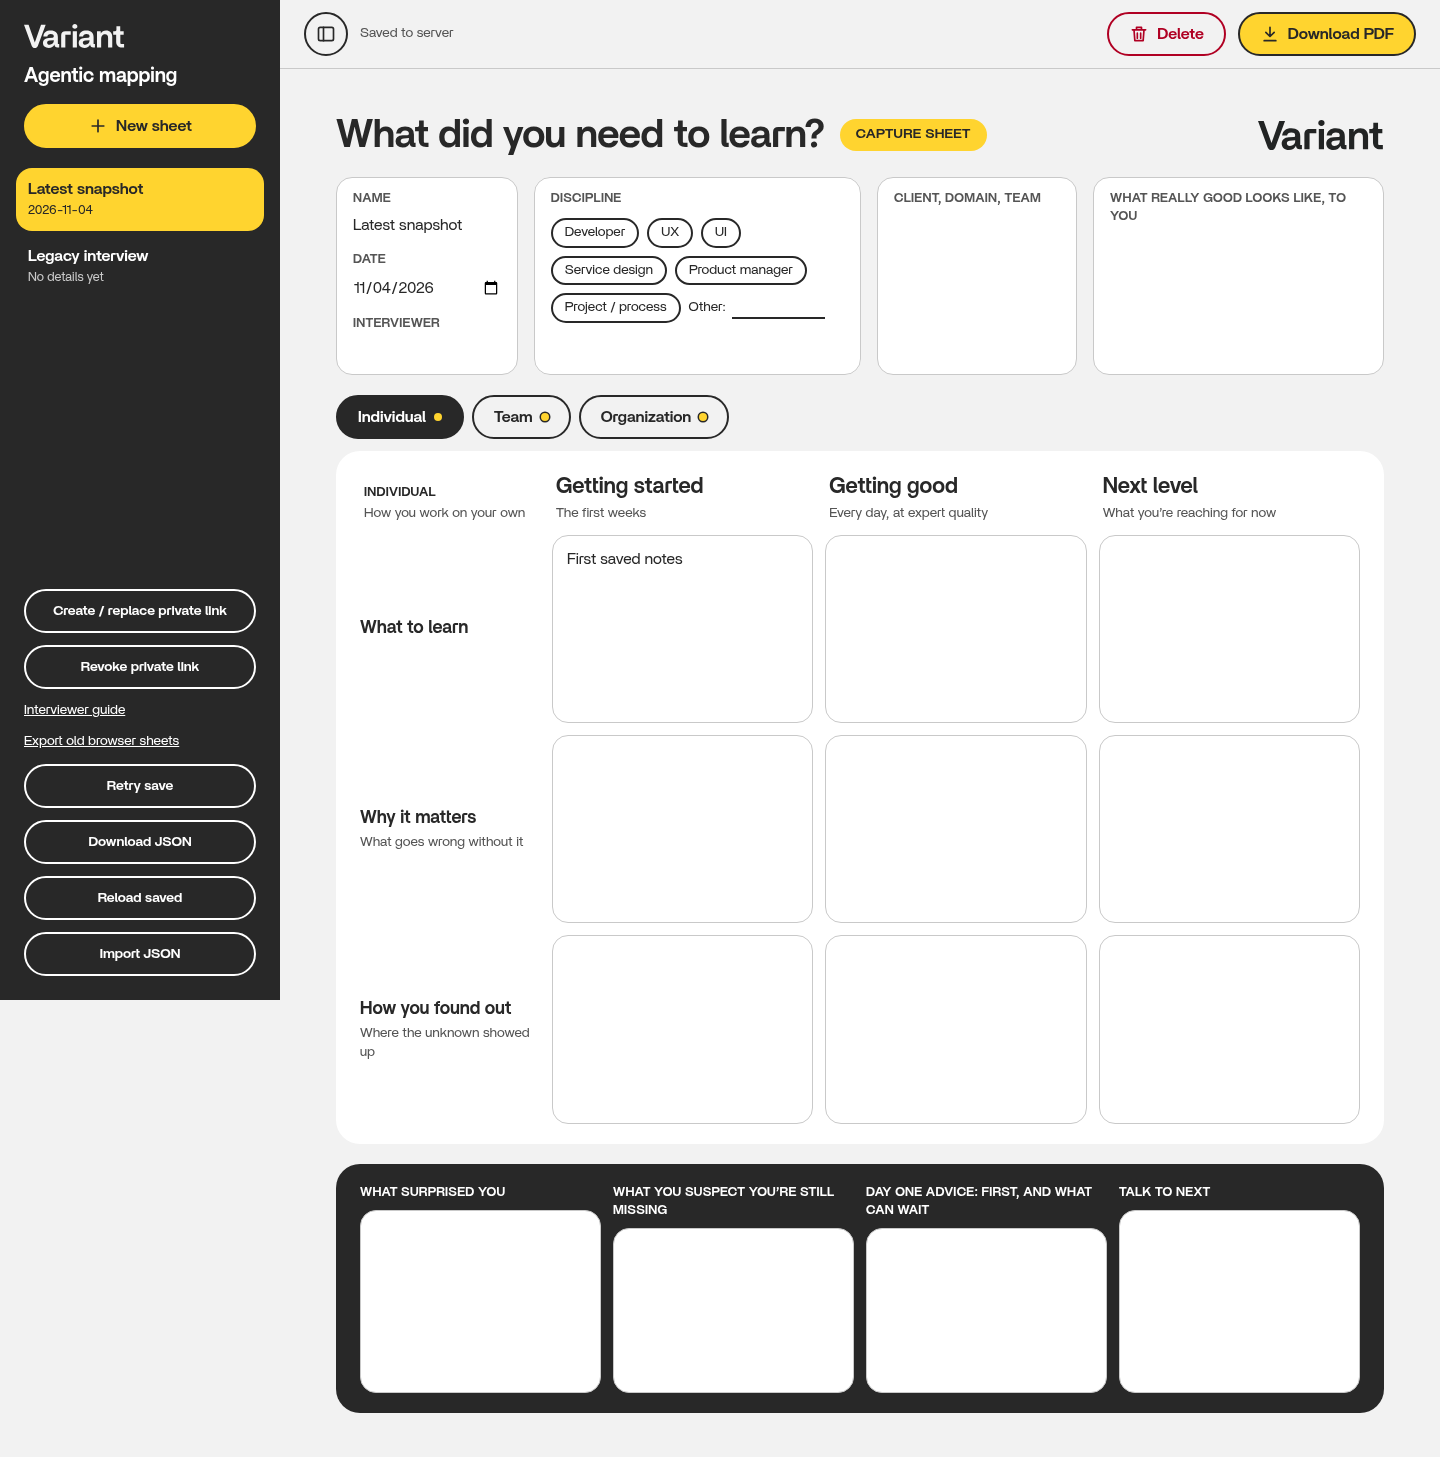
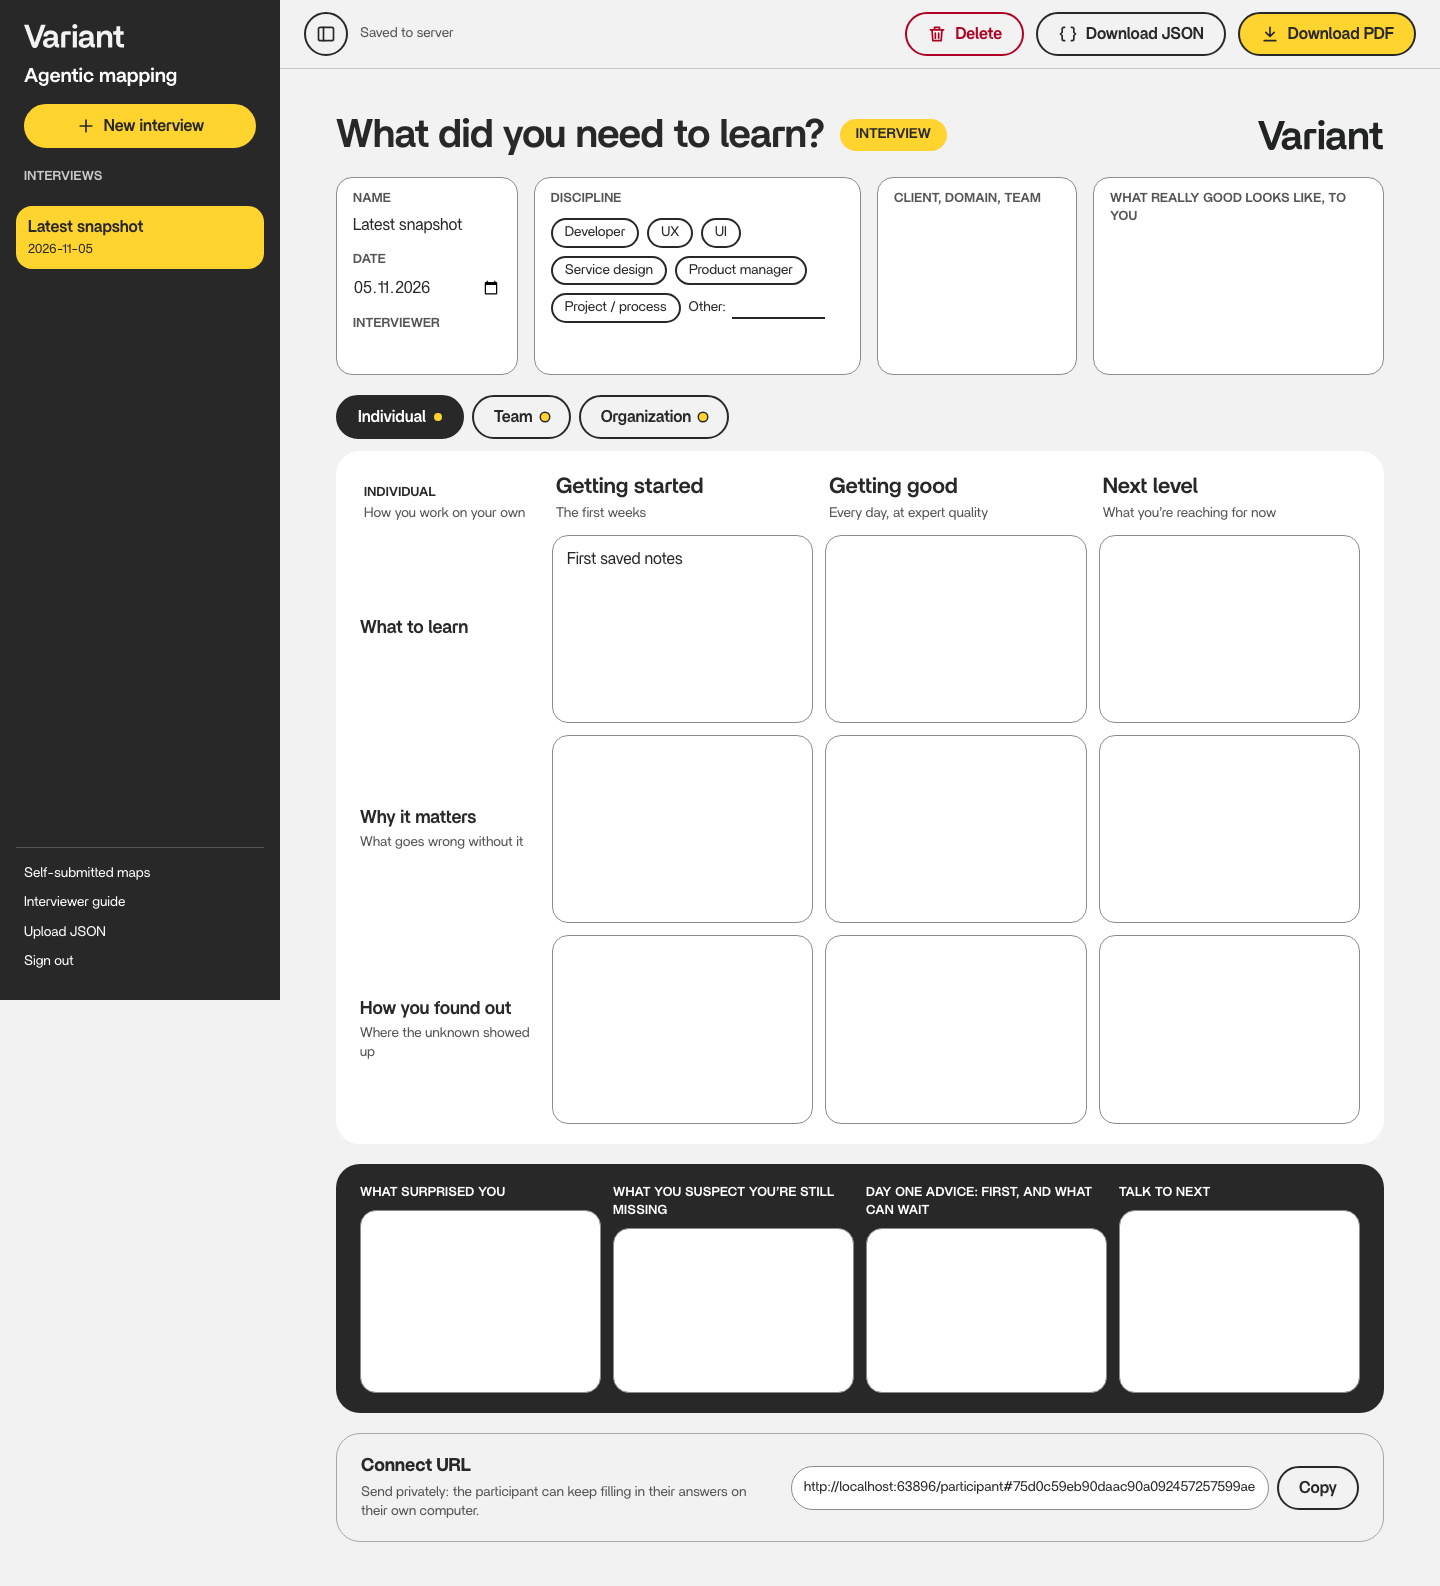
fix: sidebar

diff --git a/index.html b/index.html
@@ -24,23 +24,13 @@
       <p id="model-list-label">Interviews</p>
       <p class="sheet-list-empty" id="sheet-list-empty" hidden>No interviews yet.</p>
       <ul class="sheet-list" id="sheet-list"></ul>
-      <div class="sidebar-foot">
-        <div class="connect-link" id="connect-link" hidden>
-          <label for="connect-link-value">Connect URL</label>
-          <input type="text" id="connect-link-value" readonly autocomplete="off" spellcheck="false">
-          <p class="connect-link-hint">Send privately: the participant can keep filling in their answers on their own computer.</p>
-          <button type="button" class="btn" id="copy-connect-link">Copy connect URL</button>
-          <p id="connect-link-status" role="status"></p>
-        </div>
+      <nav class="sidebar-foot" aria-label="More">
         <a href="/submissions" id="view-switch">Self-submitted maps</a>
         <a href="guide.html">Interviewer guide</a>
-        <button type="button" class="btn" data-action="retry" disabled>Retry storage</button>
-        <button type="button" class="btn" data-action="export" data-needs-sheet disabled>Download JSON</button>
-        <button type="button" class="btn" data-action="upload" disabled>Upload JSON</button>
+        <button type="button" class="link-button" data-action="upload" disabled>Upload JSON</button>
         <input type="file" id="upload-file" accept="application/json,.json" hidden>
-        <button type="button" class="btn" data-action="reload" data-needs-sheet disabled>Reload saved</button>
-        <form method="post" action="/sign-out"><button type="submit" class="btn" id="sign-out">Sign out</button></form>
-      </div>
+        <form method="post" action="/sign-out"><button type="submit" class="link-button" id="sign-out">Sign out</button></form>
+      </nav>
     </div>
   </aside>
 
@@ -50,6 +40,10 @@
         <svg viewBox="0 0 24 24" fill="none" stroke="currentColor" stroke-width="2" stroke-linecap="round" stroke-linejoin="round" aria-hidden="true"><rect x="3" y="4" width="18" height="16" rx="2"/><path d="M9 4v16"/></svg>
       </button>
       <span class="save-status" id="save-status" role="status" aria-live="polite"></span>
+      <div class="recovery" id="recovery" hidden data-interviewer>
+        <button type="button" class="btn" data-variant="small" data-action="retry" disabled>Retry storage</button>
+        <button type="button" class="btn" data-variant="small" data-action="reload" data-needs-sheet disabled>Reload saved</button>
+      </div>
       <span class="spacer"></span>
       <div class="self-actions" data-self-only>
         <span class="self-notice"></span>
@@ -61,6 +55,10 @@
       <button type="button" class="btn" data-variant="danger" data-action="delete" data-needs-sheet data-interviewer disabled>
         <svg viewBox="0 0 24 24" fill="none" stroke="currentColor" stroke-width="2" stroke-linecap="round" stroke-linejoin="round" aria-hidden="true"><path d="M4 7h16M10 11v6M14 11v6M6 7l1 13h10l1-13M9 7V4h6v3"/></svg>
         <span class="btn-text">Delete</span>
+      </button>
+      <button type="button" class="btn" data-action="export" data-needs-sheet data-interviewer disabled>
+        <svg viewBox="0 0 24 24" fill="none" stroke="currentColor" stroke-width="2" stroke-linecap="round" stroke-linejoin="round" aria-hidden="true"><path d="M8 4H7a2 2 0 0 0-2 2v4l-2 2 2 2v4a2 2 0 0 0 2 2h1M16 4h1a2 2 0 0 1 2 2v4l2 2-2 2v4a2 2 0 0 1-2 2h-1"/></svg>
+        <span class="btn-text">Download JSON</span>
       </button>
       <button type="button" class="btn" data-variant="primary" data-action="pdf" data-needs-sheet data-interviewer disabled>
         <svg viewBox="0 0 24 24" fill="none" stroke="currentColor" stroke-width="2" stroke-linecap="round" stroke-linejoin="round" aria-hidden="true"><path d="M12 4v11M7 10l5 5 5-5M5 20h14"/></svg>
@@ -143,6 +141,18 @@
           <label class="lbl" for="f-talk">Talk to next</label>
           <div class="field"><textarea id="f-talk" name="talk_to"></textarea></div>
         </div>
+      </section>
+
+      <section class="connect-link" id="connect-link" aria-labelledby="connect-link-label" hidden data-interviewer>
+        <div>
+          <h2 id="connect-link-label"><label for="connect-link-value">Connect URL</label></h2>
+          <p class="hint">Send privately: the participant can keep filling in their answers on their own computer.</p>
+        </div>
+        <div class="connect-link-row">
+          <input type="text" id="connect-link-value" readonly autocomplete="off" spellcheck="false">
+          <button type="button" class="btn" id="copy-connect-link">Copy</button>
+        </div>
+        <p id="connect-link-status" class="hint" role="status"></p>
       </section>
     </form>
   </main>

diff --git a/styles.css b/styles.css
@@ -182,17 +182,16 @@ a:hover { color: var(--link-hover); }
 .sheet-list .untitled .sheet-name { font-style: italic; font-weight: 400; }
 .sheet-list-empty { padding: 0 8px; color: #C9C9C9; font-size: 14px; }
 
-.sidebar-foot { display: grid; gap: 12px; padding: 0 8px; font-size: 14px; }
-.sidebar-foot .btn { color: var(--white); border-color: var(--white); font-size: 14px; }
-.sidebar-foot .btn:hover { color: var(--ink); }
-.sidebar-foot form { display: grid; }
-.sidebar-foot a { color: var(--white); }
-.sidebar-foot a:hover { color: var(--yellow); }
-.connect-link { display: grid; gap: 6px; }
-.connect-link label { font-weight: 600; }
-.connect-link input { width: 100%; min-width: 0; font: inherit; font-size: 13px; padding: 6px 8px; border: 1px solid var(--white); border-radius: 4px; color: var(--ink); background: var(--white); }
-.connect-link p { margin: 0; }
-.connect-link-hint { color: var(--grey-200); font-size: 13px; }
+#model-list-label { margin: 0; padding: 0 8px; font-size: 13px; font-weight: 600; letter-spacing: 0.02em; text-transform: uppercase; color: var(--grey-200); }
+
+/* Secondary links stay small so the interview list keeps the space. */
+.sidebar-foot { display: grid; justify-items: start; gap: 2px; padding: 12px 8px 0; border-top: 1px solid var(--grey-600); font-size: 14px; }
+.sidebar-foot form { display: contents; }
+.sidebar-foot a,
+.link-button { padding: 4px 0; color: var(--white); background: none; border: 0; font: inherit; text-decoration: none; cursor: pointer; }
+.sidebar-foot a:hover,
+.link-button:hover { color: var(--yellow); text-decoration: underline; }
+.link-button:disabled { color: var(--grey-300); cursor: not-allowed; text-decoration: none; }
 
 .main { min-width: 0; display: flex; flex-direction: column; container: main / inline-size; }
 
@@ -210,6 +209,8 @@ a:hover { color: var(--link-hover); }
   border-bottom: 1px solid var(--grey-200);
 }
 .toolbar .spacer { flex: 1; }
+.recovery { display: flex; gap: 8px; }
+.btn[data-variant="small"] { min-height: 32px; padding: 4px 14px; font-size: 14px; border-width: 1.5px; }
 .save-status { font-size: 14px; color: var(--grey-600); }
 .save-status[data-state="error"] { color: var(--danger); font-weight: 600; }
 
@@ -392,6 +393,23 @@ body:is([data-self], [data-participant]) .reflect { grid-template-columns: repea
 .reflect .field { flex: 1; padding: 12px 14px; }
 .reflect textarea { min-height: 6lh; height: 100%; }
 
+/* Interviewer only: the participant's private link, below the sheet. */
+.connect-link {
+  display: grid;
+  grid-template-columns: minmax(0, 1fr) minmax(0, 1.4fr);
+  align-items: center;
+  gap: 8px 24px;
+  padding: 20px 24px;
+  border: 1px solid var(--grey-300);
+  border-radius: var(--radius-lg);
+}
+.connect-link h2 { margin: 0 0 4px; font-size: 18px; }
+.connect-link p { margin: 0; }
+.connect-link-row { display: flex; gap: 8px; }
+.connect-link input { flex: 1; min-width: 0; font: inherit; font-size: 14px; padding: 8px 12px; border: 1px solid var(--grey-400); border-radius: var(--radius-pill); color: var(--ink); background: var(--white); }
+#connect-link-status { grid-column: 2; }
+#connect-link-status:empty { display: none; }
+
 /* ---------- Dialog ---------- */
 
 dialog {
@@ -418,6 +436,8 @@ dialog .actions { display: flex; justify-content: flex-end; gap: 12px; flex-wrap
 
 @container main (max-width: 760px) {
   .toolbar { padding: 12px 16px; }
+  .connect-link { grid-template-columns: minmax(0, 1fr); padding: 16px; }
+  #connect-link-status { grid-column: auto; }
   .sheet { padding: 24px 16px; }
   .sheet-header h1 { font-size: 32px; }
   .matrix { grid-template-columns: minmax(0, 1fr); padding: 16px; }
@@ -452,7 +472,7 @@ dialog .actions { display: flex; justify-content: flex-end; gap: 12px; flex-wrap
 @media print {
   * { -webkit-print-color-adjust: exact; print-color-adjust: exact; }
   body { background: var(--paper); font-size: 12px; }
-  .sidebar, .toolbar, .empty, dialog { display: none !important; }
+  .sidebar, .toolbar, .empty, .connect-link, dialog { display: none !important; }
   .app, .app[data-sidebar="closed"] { display: block; min-height: 0; }
   .sheet { padding: 0; gap: 10px; max-width: none; }
   .sheet-header h1 { font-size: 24px; }

diff --git a/client/app.js b/client/app.js
@@ -12,6 +12,7 @@ export function initEditor(storage) {
   const listEmpty = document.getElementById('sheet-list-empty');
   const empty = document.getElementById('empty');
   const status = document.getElementById('save-status');
+  const recovery = document.getElementById('recovery');
   const toggle = document.getElementById('toggle-sidebar');
   const confirmDelete = document.getElementById('confirm-delete');
   const narrow = matchMedia('(max-width: 900px)');
@@ -49,6 +50,8 @@ export function initEditor(storage) {
   function setStatus(text, state = '') {
     status.textContent = text;
     status.dataset.state = state;
+    // Retry and reload are only useful while something is wrong.
+    recovery.hidden = state !== 'error';
   }
 
   async function save() {
